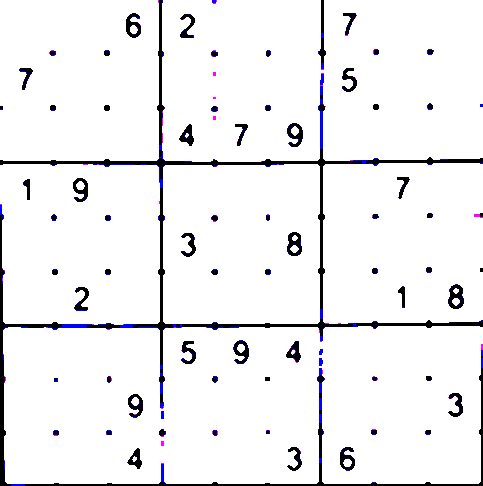
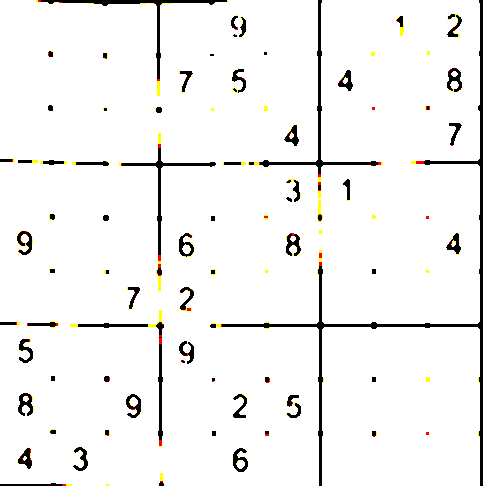
write solved sudoku to src img

diff --git a/save_board.py b/save_board.py
@@ -1,0 +1,27 @@
+# Made by Michael36500
+
+import cv2
+# from tqdm import tqdm
+
+# my idea here is to load predefined image of sudoku board and draw into it.
+def save_board(board, name = "solved.png", where = "sudoku_sken.png"):
+    # loads empty sudoku board into img
+    img = cv2.imread(where)
+    # gap equals space between each number
+    h, w = img.shape[:2]
+    gap = w // 9
+    # gap = 52
+    actual_line = -18
+    # for line in tqdm(board):
+    for line in board:
+        if "-" in str(line):
+            pass
+        else:
+            actual_char = 25
+            actual_line += gap
+            for char in line:
+                if char == "|":
+                    continue
+                cv2.putText(img, str(char), (actual_char, actual_line), cv2.FONT_HERSHEY_PLAIN, 5, (0,0,0), 5)
+                actual_char += gap
+    cv2.imwrite("{}".format(str(name)), img)

diff --git a/sudoku_solver_inspirated.py b/sudoku_solver_inspirated.py
@@ -1,7 +1,9 @@
 from detect_all_chars import gen_grid
+from save_board import save_board
 
 M = 9
 def puzzle(a):
+    save_board(a)
     for i in range(M):
         for j in range(M):
             print(a[i][j],end = " ")
@@ -23,7 +25,7 @@ def solve(grid, row, col, num):
             if grid[i + startRow][j + startCol] == num:
                 return False
     return True
- 
+
 def Suduko(grid, row, col):
  
     if (row == M - 1 and col == M):
